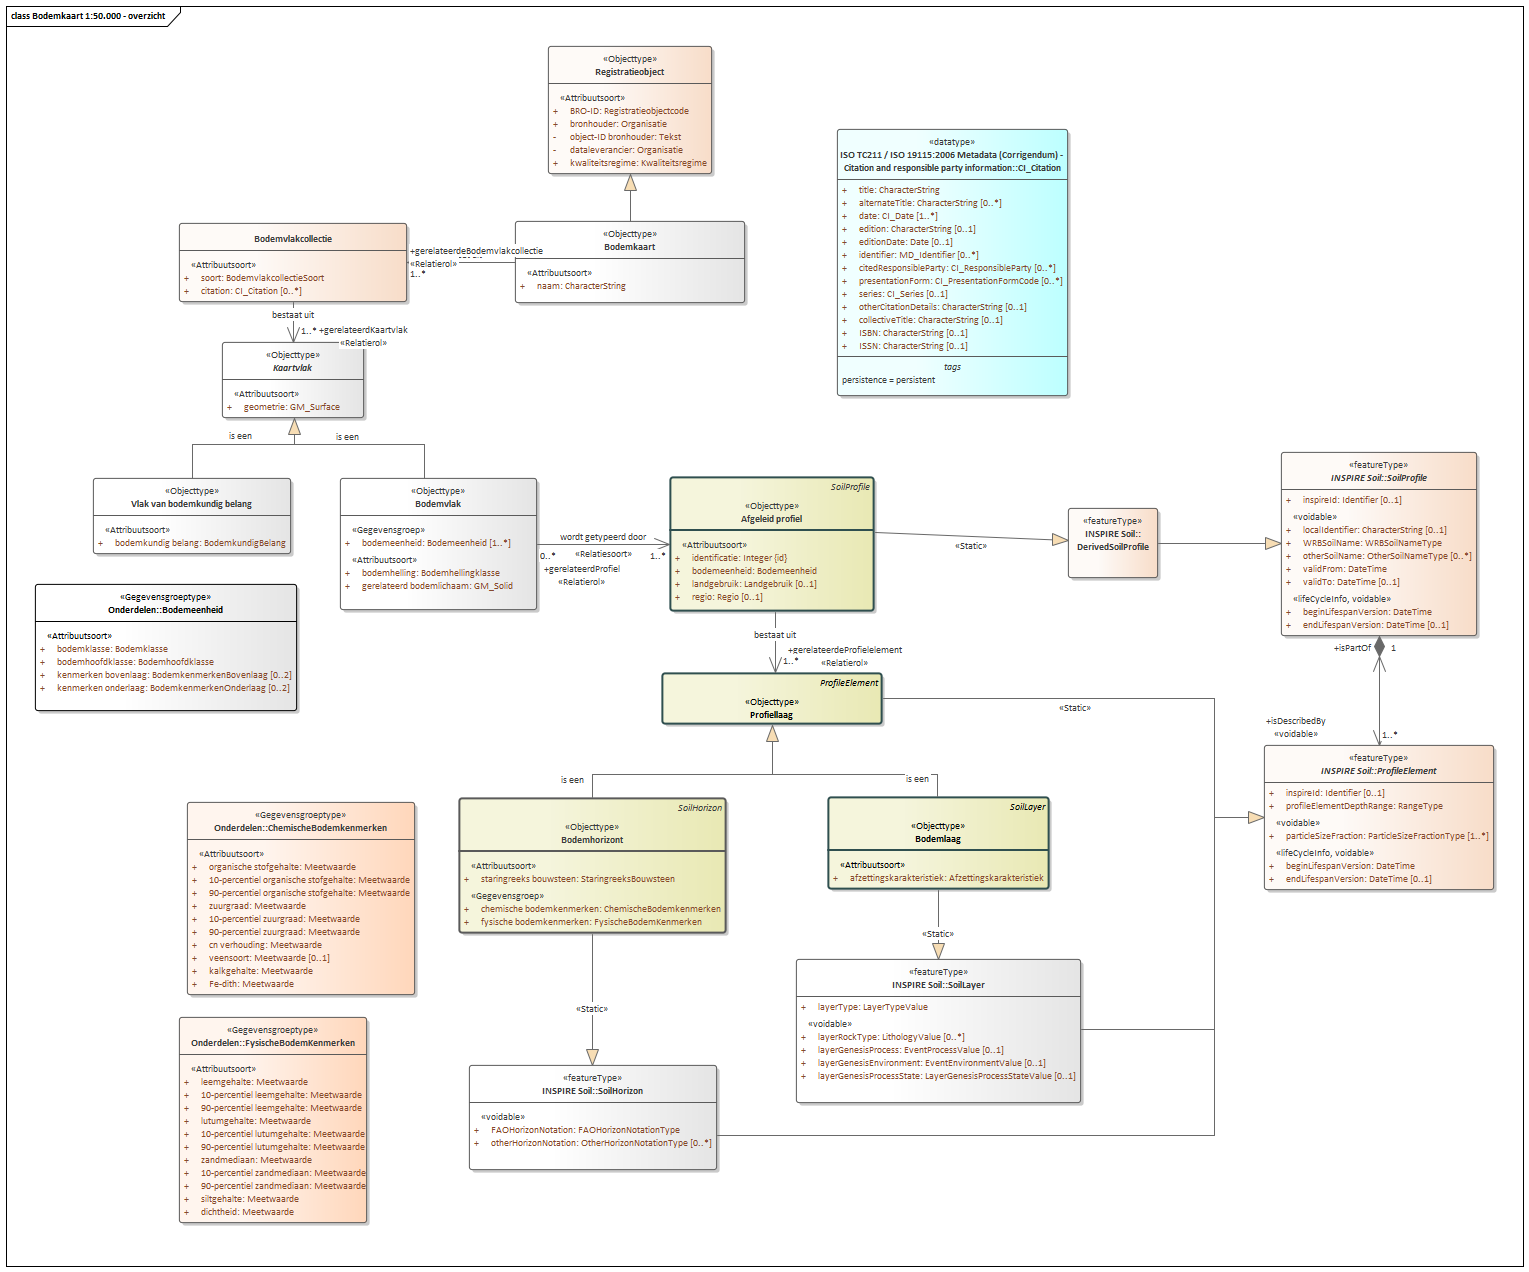
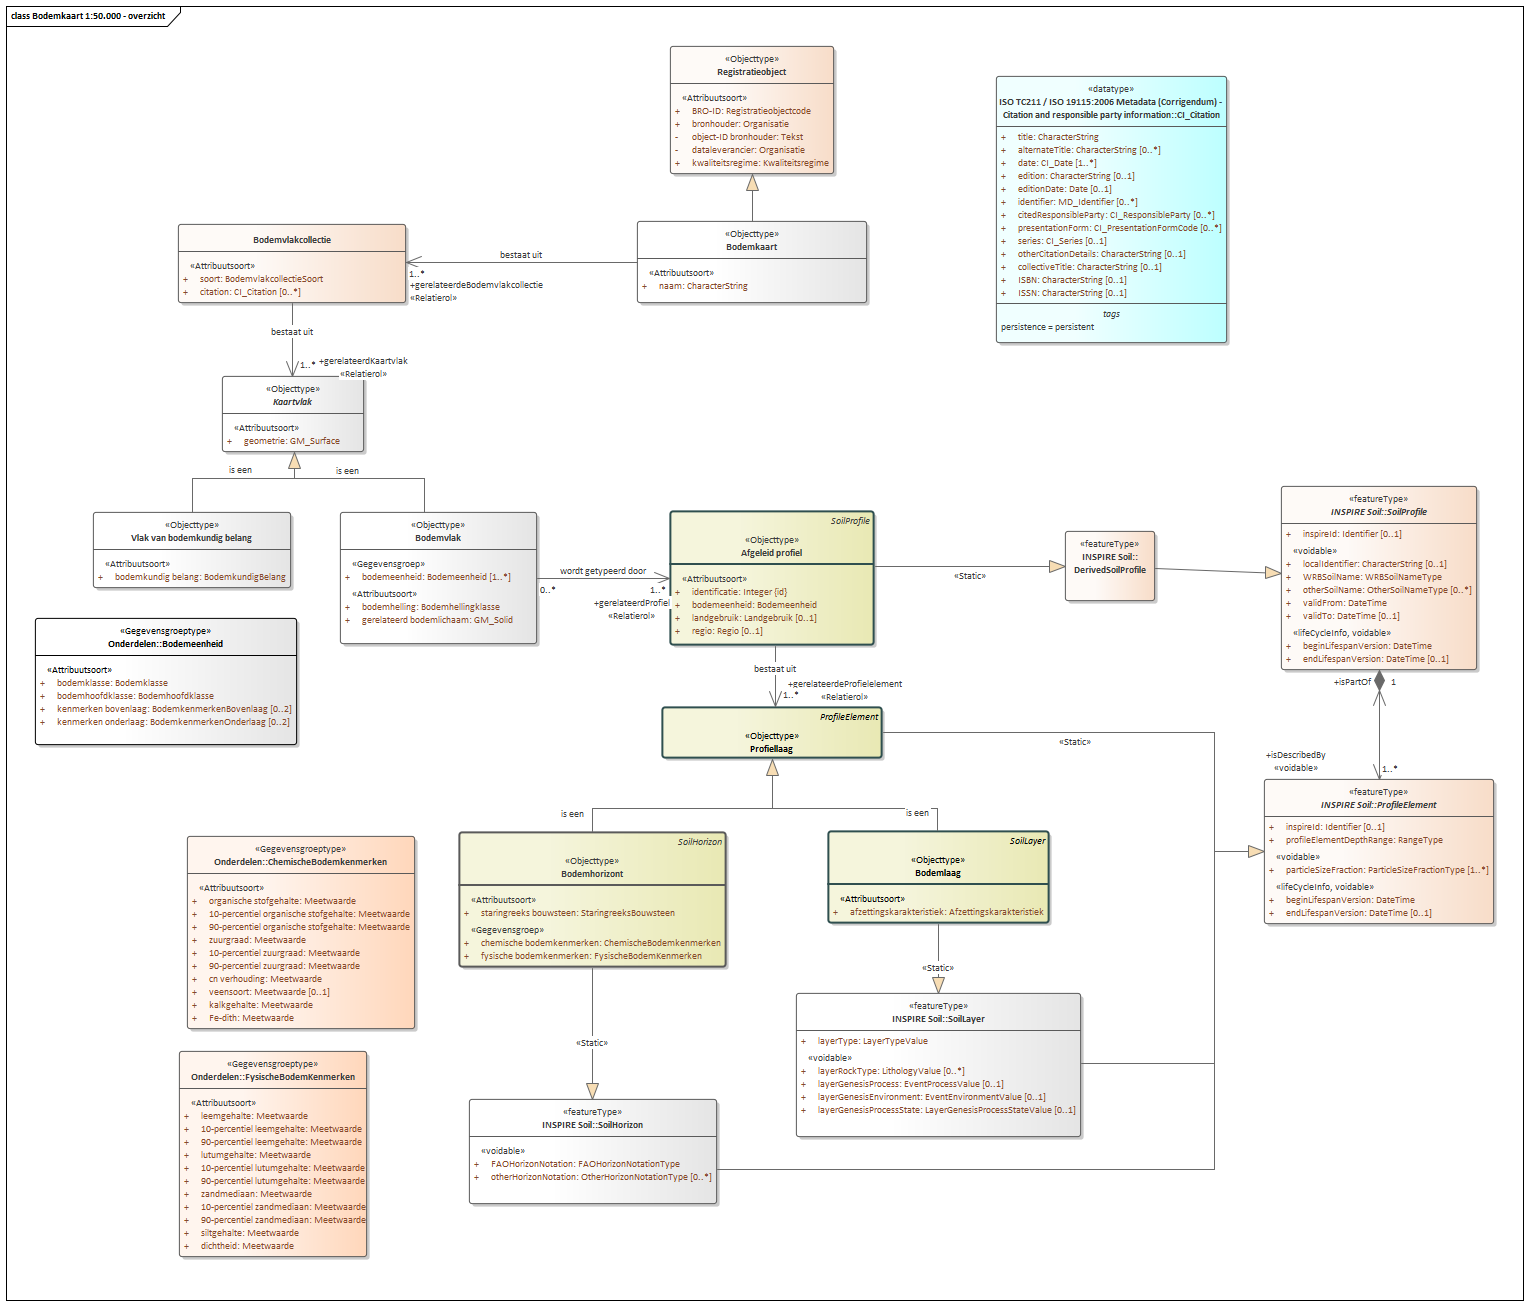
Conceptualmodel-Bodem-engrondwatertrappenkaartSGM-1.0-1-20181205-20200629-131249

diff --git a/data/SGM-cat.msword.html b/data/SGM-cat.msword.html
@@ -15,7 +15,7 @@
    <body>
       <p>Conceptual model/Bodem- en grondwatertrappenkaart (SGM)/20181205</p>
       <p>Imvertor: 1.60.1</p>
-      <p>Model release: Conceptualmodel-Bodem-engrondwatertrappenkaartSGM-1.0-1-20181205-20200629-130952</p>
+      <p>Model release: Conceptualmodel-Bodem-engrondwatertrappenkaartSGM-1.0-1-20181205-20200629-131249</p>
       <hr>
       <section>
          <h1>Artikel 1 Definitie van registratieobject, entiteiten en attributen</h1>
@@ -49,7 +49,7 @@
          <section>
             <h2>Het domeinmodel</h2>
             <section id="">
-               <div class="imageinfo overview"><img src="Images/EAID_6F1DEB4D_0857_407f_96D1_68CEB4BA18C6.png" usemap="#imagemap-EAID_6F1DEB4D_0857_407f_96D1_68CEB4BA18C6" alt="Diagram "><map name="imagemap-EAID_6F1DEB4D_0857_407f_96D1_68CEB4BA18C6"><area shape="rect" alt="Registratieobject" coords="548,46,712,174" href="#graph_EAID_93C35E9C_DB6B_4fad_AD2F_6D72CB028948"><area shape="rect" alt="FysischeBodemKenmerken" coords="179,1017,367,1223" href="#graph_EAID_7487B6E9_2821_4136_A6BD_45BCC55D08C4"><area shape="rect" alt="ChemischeBodemkenmerken" coords="187,802,415,995" href="#graph_EAID_E7CD7773_A9F8_46e0_87D3_D98930256054"><area shape="rect" alt="Profiellaag" coords="662,673,882,724" href="#graph_EAID_9FA1F427_89ED_4c1a_ACE5_19CC4E4574CA"><area shape="rect" alt="Bodemlaag" coords="828,797,1049,889" href="#graph_EAID_D6147D13_A2CE_4eac_846C_D98CF51FC411"><area shape="rect" alt="Bodemhorizont" coords="459,798,726,933" href="#graph_EAID_51B920BD_F7BA_420b_8BC2_F95666441BBE"><area shape="rect" alt="Afgeleid profiel" coords="670,477,874,611" href="#graph_EAID_F7554868_9447_4c85_91F2_85A060A04221"><area shape="rect" alt="Bodemkaart" coords="515,221,745,303" href="#graph_EAID_5403E30C_F3F4_4c09_907F_D48BE501C19C"><area shape="rect" alt="Kaartvlak" coords="222,342,364,418" href="#graph_EAID_99801C7D_8272_47b8_8892_0FFAA25819DC"><area shape="rect" alt="Vlak van bodemkundig belang" coords="93,478,291,554" href="#graph_EAID_FFE7D8E2_A953_49c6_AB62_7366945DDAB6"><area shape="rect" alt="Bodemvlak" coords="340,478,537,610" href="#graph_EAID_1A0B021D_CECB_4888_896B_045EDB9287FB"><area shape="rect" alt="Bodemeenheid" coords="35,584,297,711" href="#graph_EAID_851EC4B0_D56E_4be9_A97B_2603C79F70A0"></map><p><b>Bodemkaart 1:50.000</b></p>
+               <div class="imageinfo overview"><img src="Images/EAID_6F1DEB4D_0857_407f_96D1_68CEB4BA18C6.png" usemap="#imagemap-EAID_6F1DEB4D_0857_407f_96D1_68CEB4BA18C6" alt="Diagram "><map name="imagemap-EAID_6F1DEB4D_0857_407f_96D1_68CEB4BA18C6"><area shape="rect" alt="Registratieobject" coords="670,46,834,174" href="#graph_EAID_93C35E9C_DB6B_4fad_AD2F_6D72CB028948"><area shape="rect" alt="FysischeBodemKenmerken" coords="179,1051,367,1257" href="#graph_EAID_7487B6E9_2821_4136_A6BD_45BCC55D08C4"><area shape="rect" alt="ChemischeBodemkenmerken" coords="187,836,415,1029" href="#graph_EAID_E7CD7773_A9F8_46e0_87D3_D98930256054"><area shape="rect" alt="Profiellaag" coords="662,707,882,758" href="#graph_EAID_9FA1F427_89ED_4c1a_ACE5_19CC4E4574CA"><area shape="rect" alt="Bodemlaag" coords="828,831,1049,923" href="#graph_EAID_D6147D13_A2CE_4eac_846C_D98CF51FC411"><area shape="rect" alt="Bodemhorizont" coords="459,832,726,967" href="#graph_EAID_51B920BD_F7BA_420b_8BC2_F95666441BBE"><area shape="rect" alt="Afgeleid profiel" coords="670,511,874,645" href="#graph_EAID_F7554868_9447_4c85_91F2_85A060A04221"><area shape="rect" alt="Bodemkaart" coords="637,221,867,303" href="#graph_EAID_5403E30C_F3F4_4c09_907F_D48BE501C19C"><area shape="rect" alt="Kaartvlak" coords="222,376,364,452" href="#graph_EAID_99801C7D_8272_47b8_8892_0FFAA25819DC"><area shape="rect" alt="Vlak van bodemkundig belang" coords="93,512,291,588" href="#graph_EAID_FFE7D8E2_A953_49c6_AB62_7366945DDAB6"><area shape="rect" alt="Bodemvlak" coords="340,512,537,644" href="#graph_EAID_1A0B021D_CECB_4888_896B_045EDB9287FB"><area shape="rect" alt="Bodemeenheid" coords="35,618,297,745" href="#graph_EAID_851EC4B0_D56E_4be9_A97B_2603C79F70A0"></map><p><b>Bodemkaart 1:50.000</b></p>
                </div>
                <div class="imageinfo overview"><img src="Images/EAID_2793BB12_5218_46ab_B17A_9F4C5C392B77.png" usemap="#imagemap-EAID_2793BB12_5218_46ab_B17A_9F4C5C392B77" alt="Diagram "><map name="imagemap-EAID_2793BB12_5218_46ab_B17A_9F4C5C392B77"><area shape="rect" alt="Regio" coords="515,334,615,436" href="#graph_EAID_71DE2E29_F39A_485e_B124_80FF3FBCA181"><area shape="rect" alt="Landgebruik" coords="395,334,495,448" href="#graph_EAID_E6891C10_4381_49af_88F6_76AB00B3EC38"><area shape="rect" alt="BodemvlakcollectieSoort" coords="275,334,375,1658" href="#graph_EAID_5E3D75B5_CE9E_49f3_8210_6B864BF1D2C8"><area shape="rect" alt="StaringreeksBouwsteen" coords="155,334,255,865" href="#graph_EAID_A917BA6F_0EC3_4fc7_80D5_2F204F61DA5A"><area shape="rect" alt="BodemkundigBelang" coords="35,334,135,553" href="#graph_EAID_803E52C2_E581_448f_A721_83925F3746D1"><area shape="rect" alt="Bodemklasse" coords="689,43,789,4552" href="#graph_EAID_56676ADB_C4F7_41a8_872A_B2198F6F6835"><area shape="rect" alt="BodemkenmerkenOnderlaag" coords="547,43,669,236" href="#graph_EAID_5463CF56_01BC_4f0c_88A7_11F479050C47"><area shape="rect" alt="BodemkenmerkenBovenlaag" coords="405,43,527,275" href="#graph_EAID_21FF9CA4_F85D_4d76_B3FC_6AD3B00C742C"><area shape="rect" alt="Bodemhoofdklasse" coords="225,43,385,314" href="#graph_EAID_195648A8_101B_4368_86F9_28E280667479"><area shape="rect" alt="Bodemhellingklasse" coords="35,43,205,184" href="#graph_EAID_155A6898_3C52_4f50_BEEA_5E0FCA823AEB"></map><p><b>Code- en referentielijsten</b></p>
                </div>
